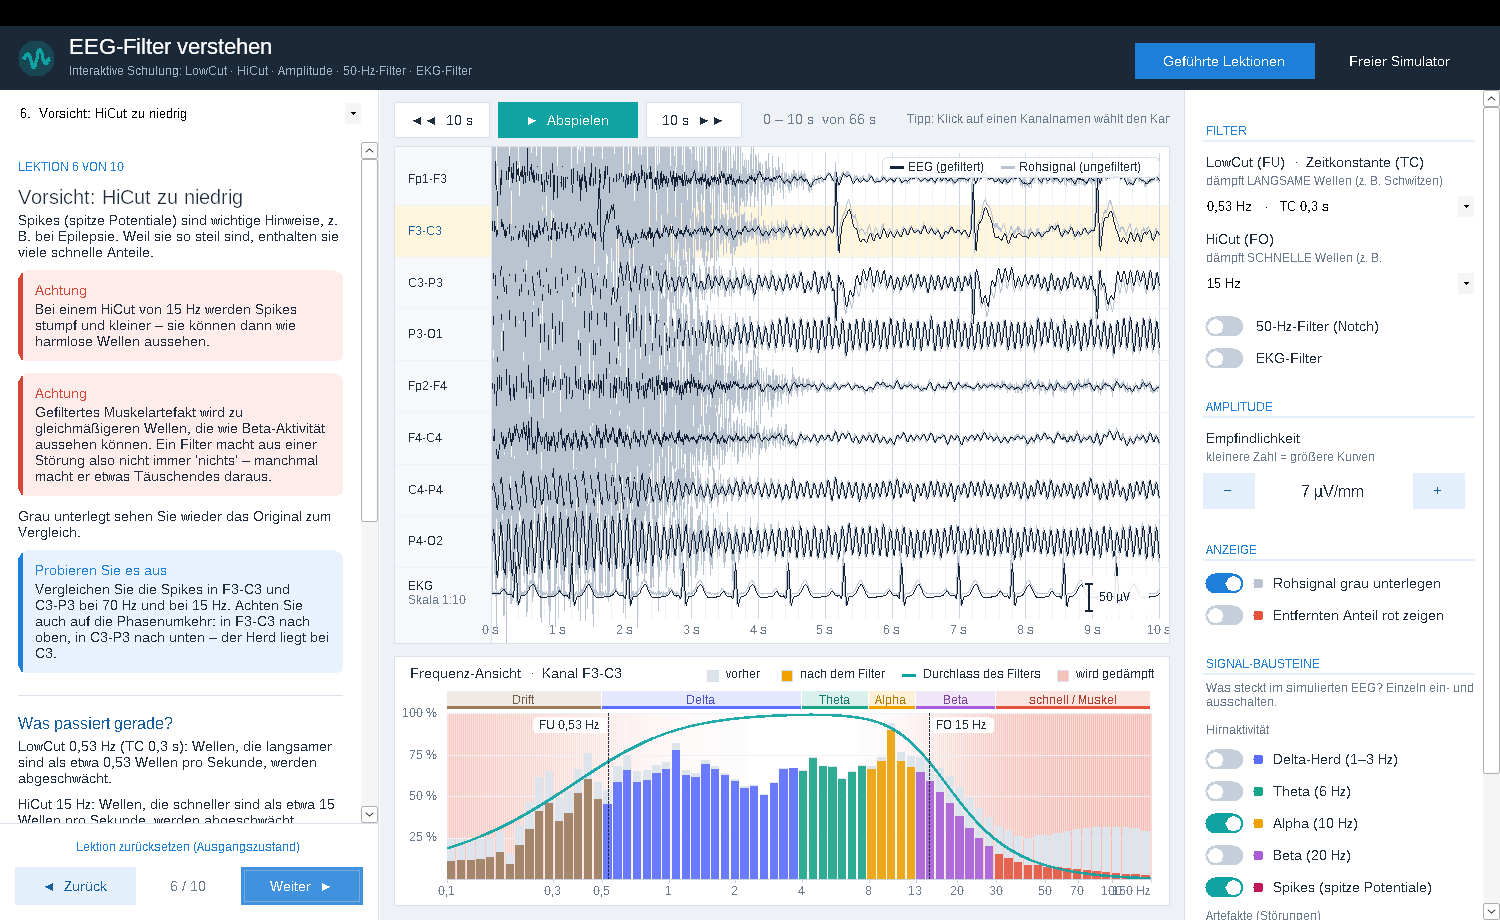
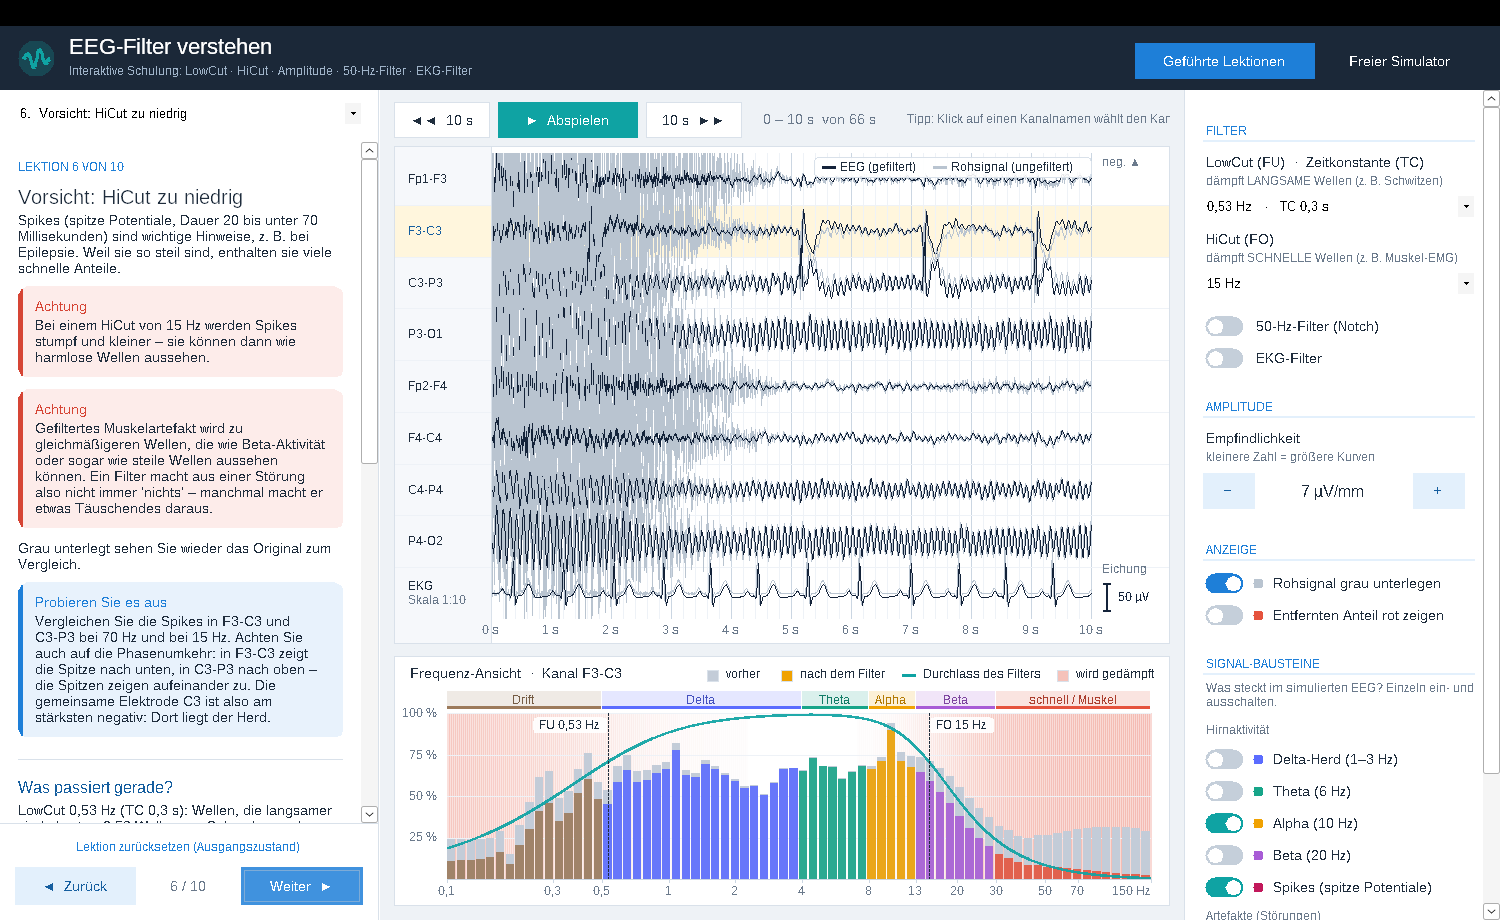
Fachliche Prüfung: Polarität, Schwitzartefakt, Leitlinienwerte, gemessene Balken
- Anzeige nach EEG-Konvention (negativ nach oben); Blinzeln und
  Spike-Phasenumkehr zeigen damit in die richtige Richtung
- Schwitzartefakt auf den Literaturbereich unter 0,5 Hz gelegt
- Lektionstexte an DGKN-/ACNS-Empfehlungen und IFCN-Glossar angepasst
- Balken 'So viel kommt durch' werden am simulierten Signal gemessen,
  EKG-Rest ebenfalls gemessen statt geschätzt
- Warnhinweise bei Einstellungen außerhalb der Empfehlungen
- Quellenübersicht in KONZEPT.md

Claude-Session: https://claude.ai/code/session_01Y2fd9GsygCdrgbDvqwwBgL

diff --git a/KONZEPT.md b/KONZEPT.md
@@ -41,6 +41,7 @@ Wiederkehrende Elemente in jeder Lektion:
 ## 3. Simulation
 
 - Abtastrate 500 Hz, 65,5 s Aufnahme, reproduzierbar (fester Zufallsstartwert)
+- Alle Werte sind Potentialdifferenzen (Eingang 1 minus Eingang 2); die Anzeige folgt der Konvention „negativ nach oben“
 - Bausteine, einzeln zuschaltbar:
 
 | Baustein | Eigenschaft |
@@ -49,9 +50,9 @@ Wiederkehrende Elemente in jeder Lektion:
 | Theta | – |
 | Alpha | okzipital, an- und abschwellend |
 | Beta | – |
-| Spike-Wave | Herd C3 |
-| Augenblinzeln | – |
-| Schwitzartefakt | – |
+| Spike-Wave | oberflächennegativ, Herd C3 mit Phasenumkehr |
+| Augenblinzeln | Fp positiv, Ausschlag nach unten |
+| Schwitzartefakt | sehr langsam (0,1–0,4 Hz), je Kanal unabhängig |
 | EMG | schubweise, frontal |
 | 50-Hz-Brumm | schlechte Elektrode P4 |
 | EKG-Artefakt | – |
@@ -74,3 +75,25 @@ Alle Filter arbeiten kausal, also wie in einem echten Gerät.
 3. Die Grundlinie wird entfernt. Eine statistische Schrumpfung sorgt dafür, dass kein EEG-Rauschen mit abgezogen wird.
 4. Die Ränder werden weich ausgeblendet (Tukey-Fenster).
 5. Die Schablone wird bei jedem Herzschlag abgezogen.
+
+## 4. Fachliche Grundlagen und Quellen
+
+Die Texte und die Simulation wurden gegen öffentlich zugängliche Leitlinien und Fachliteratur geprüft.
+
+| Aussage in der Anwendung | Grundlage |
+|---|---|
+| LowCut höchstens 0,5 Hz (TC 0,3 s), HiCut mindestens 70 Hz, Empfindlichkeit 5–10 µV/mm | DGKN, Empfehlungen für die Durchführung von EEG-Ableitungen bei Erwachsenen (Fassung 2024) |
+| Bei Kindern meist 10 µV/mm, bei niedriger Amplitude 7 µV/mm | DGKN, Empfehlungen für EEG-Ableitungen bei Kindern |
+| LowCut höchstens 1 Hz (TC mindestens 0,16 s), HiCut mindestens 70 Hz; Netzfilter nur, wenn andere Maßnahmen versagen, weil er Spikes verändern kann | ACNS Guideline 1: Minimum Technical Requirements for Performing Clinical EEG (2016) |
+| Spike: 20 bis unter 70 ms; Frequenzbänder | IFCN-Glossar (Kane et al., Clin Neurophysiol Pract 2017) |
+| Polarität „negativ nach oben“; Phasenumkehr an der gemeinsamen Elektrode | Beniczky & Schomer, Epileptic Disord 2020; Lehrbuchstandard |
+| Augenblinzeln: Fp wird positiv, Ausschlag nach unten in Fp1-F3/Fp2-F4 | Hornhaut-Netzhaut-Dipol und Bell-Phänomen; Lehrbuchstandard |
+| Schwitzartefakt: sehr langsam, unter 0,5 Hz | Lehrbuchstandard (z. B. R.-EEG-T.-Lehrmaterial) |
+| Muskelartefakt reicht von etwa 20 bis 300 Hz; gefiltert kann es Beta oder steile Wellen vortäuschen | Muthukumaraswamy, Front Hum Neurosci 2013; Goncharova et al., Clin Neurophysiol 2003 |
+| EKG-Filter durch R-Zacken-getriggerte Mittelung und Subtraktion | Nakamura & Shibasaki, Electroencephalogr Clin Neurophysiol 1987; 66: 88–92 |
+
+### Bewusste Vereinfachungen
+
+- Die Flankensteilheit der Filter ist geräteabhängig. Hier: LowCut 6 dB/Oktave (wie ein RC-Glied), HiCut 12 dB/Oktave.
+- Die Signale sind synthetisch. Amplituden und Verteilung sind typisch gewählt, bilden aber keinen einzelnen Patienten ab.
+- Die Balken „So viel kommt durch“ werden am simulierten Baustein gemessen (Effektivwert, bei Spikes, Blinzeln und EKG die Spitzenhöhe).
